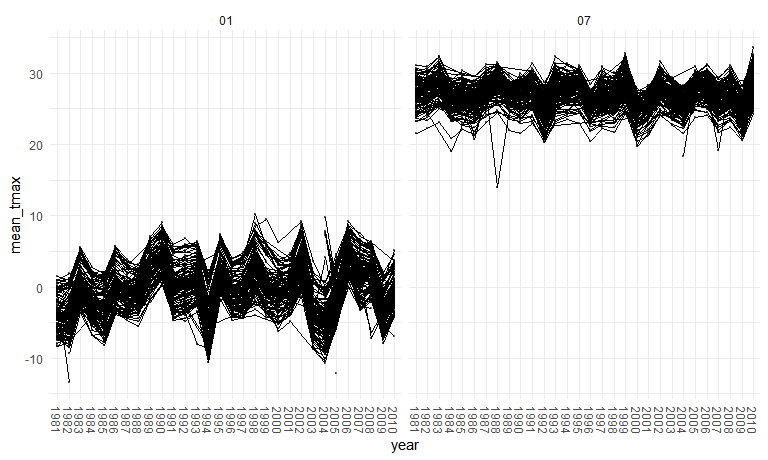
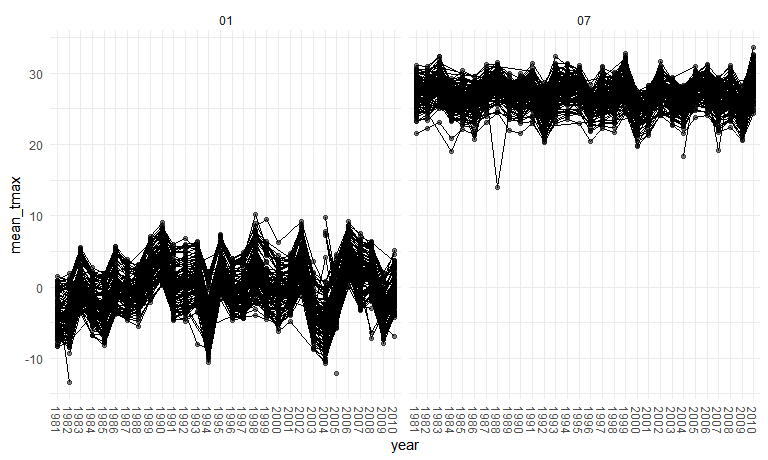
problem 2 - comments

diff --git a/p8105_hw3_nc2894.md b/p8105_hw3_nc2894.md
@@ -39,7 +39,7 @@ options(
 
 # Problem 2
 
-### Part 1
+### Part 1) Load, tidy, and wrangle the data
 
 ``` r
 accel_df = read.csv("./data/accel_data.csv") %>%
@@ -48,17 +48,33 @@ accel_df = read.csv("./data/accel_data.csv") %>%
     activity_1:activity_1440, 
     names_to = "minute",
     names_prefix = "activity_", 
-    values_to = "activity_count"
-  ) %>%
+    values_to = "activity_count") %>%
+  mutate(weekday_vs_weekend = recode(day, Monday = "weekday", Tuesday = "weekday", Wednesday = "weekday", 
+                                     Thursday = "weekday", Friday = "weekday", Saturday = "weekend", Sunday = 
+                                     "weekend")) %>%
+  relocate(weekday_vs_weekend, .after = day) %>%
   mutate(
     minute = as.numeric(minute),
-    day = factor(day),
+    day = as.factor(day), 
     day = fct_relevel(day, "Sunday", "Monday", "Tuesday", "Wednesday", "Thursday", "Friday", "Saturday"),
-    weekend = as.numeric(day %in% c("Saturday", "Sunday")),
-    weekend = recode(weekend, '1' = "weekend", '0' = "weekday"))
+    weekday_vs_weekend = as.factor(weekday_vs_weekend))
+
+accel_df %>% view
 ```
 
-### Part 2
+Comment: The resulting dataset shows the accelerometer data collected on
+a 63 year-old male with BMI 25, who was diagnosed with congestive heart
+failure and was admitted to the Advaned Cardiac Care Center of Columbia
+University Medical Center. More specifically, the data show the activity
+counts per each minute every day during the five weeks the data was
+collected from. The variables in the resulting dataset are week,
+day\_id, day, weekday\_vs\_weekend, minute, activity\_count. The
+variable ‘minute’ indicates which minute of the 24-hour day the activity
+occurred starting at midnight, and ‘activity\_count’ denotes the count
+of the activity that occurred per each minute. In this dataset, there
+are a total of 50400 observations.
+
+### Part 2) Create a table that shows the total minutes of activity for each day
 
 ``` r
 accel_df %>% 
@@ -80,7 +96,21 @@ accel_df %>%
     ## 4     4 260617 409450  319568    434460   340291  154049      1440
     ## 5     5 138421 389080  367824    445366   549658  620860      1440
 
-### Part 3
+Comment: The resulting table shows the total minutes of activity per
+each day for five weeks. It seems that generally the days around
+weekends tend to show more peak activity counts than the weekdays. This
+is shown by activity counts over 600,000 occurring on week 1 of Sunday,
+week 3 of Monday, week 5 of Friday, and week 2 of Saturday whereas such
+counts never occurred on Tuesday, Wednesday, or Thursday. However,
+further analyses would have to be done to identify specific trends with
+certainty, because the activity counts seem to be quite similar across
+all days throughout each week. Furthermore, the table shows that two
+Saturdays have significantly low numbers of activity counts compared to
+activity counts of all the other days. From inspection of the dataset,
+all the activity counts of these two Saturdays are recorded as ‘1’,
+which could be due to mistake or errors.
+
+### Part 3) Create a single-panel plot that shows the 24-hour activity time courses for each day
 
 ``` r
 accel_df %>%
@@ -92,6 +122,16 @@ accel_df %>%
     ## `geom_smooth()` using method = 'gam' and formula 'y ~ s(x, bs = "cs")'
 
 <img src="p8105_hw3_nc2894_files/figure-gfm/unnamed-chunk-4-1.png" width="90%" />
+
+Comment: The resulting graph shows the activity counts over 24-hours of
+each day during the five weeks. It seems that the activity counts
+generally cluster the most around 11:00am to 12pm (before and around 750
+minutes) and around 8pm to 9:30 pm (before and around 1250 minutes). In
+addition, there seems to be a peak in activity on Sunday around 11am
+(before 750 minutes) and a peak in activity on Friday around 9pm (around
+1250 minutes). Furthermore, according to the graph, I may be able to
+infer that the person usually wakes up before 8am (before 500 minutes)
+and goes to sleep around 10pm (around 1320 minutes).
 
 # Problem 3
 
@@ -129,6 +169,10 @@ ny_noaa_df %>%
     ## 10     3    8790
     ## # ... with 272 more rows
 
+``` r
+ny_noaa_df %>% view
+```
+
 ### Part 2
 
 ``` r
@@ -138,7 +182,7 @@ ny_noaa_df %>%
   summarize(
     mean_tmax = mean(tmax, na.rm = TRUE)) %>%
   ggplot(aes(x = year, y = mean_tmax, group = id)) + 
-  geom_point(alpha = 0.5, size = 0.5) +
+  geom_point(alpha = 0.5) +
   geom_path() +
   facet_grid(.~month) +
   theme(axis.text.x = element_text(angle = 270, vjust = 0.5, hjust = 1))
